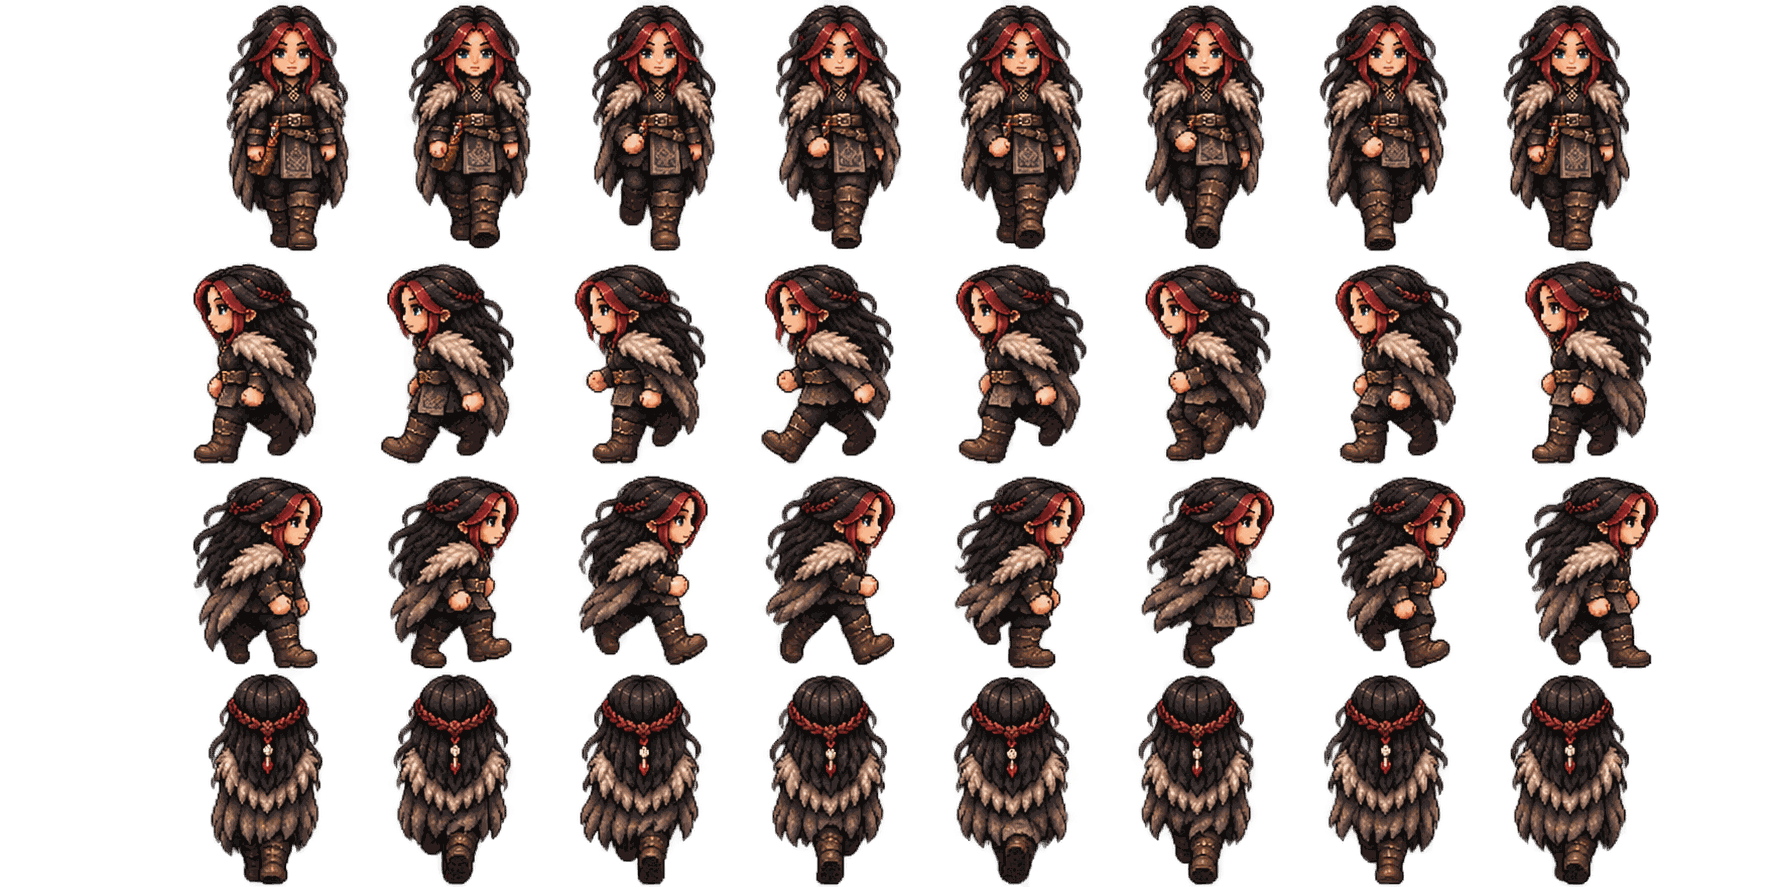
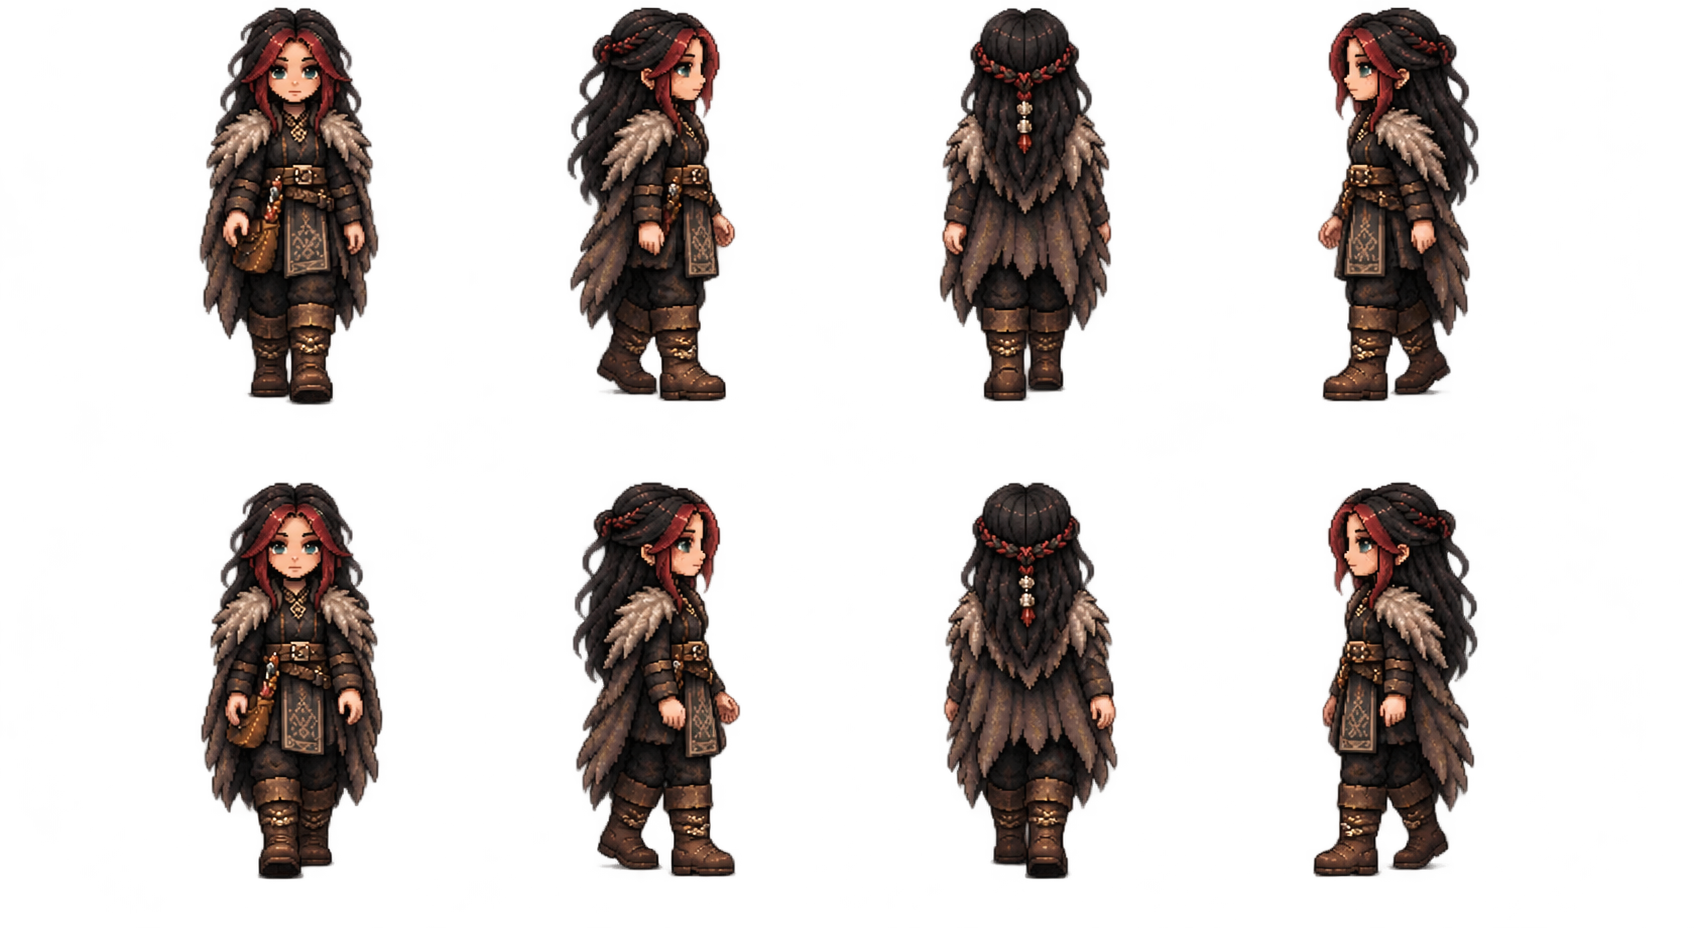
Use approved two-step Inca walking sprites in all four directions

diff --git a/haigen.html b/haigen.html
@@ -1,4 +1,4 @@
-<!doctype html><html lang="en"><head><meta charset="utf-8"><meta name="viewport" content="width=device-width,initial-scale=1,maximum-scale=1,user-scalable=no,viewport-fit=cover"><meta name="theme-color" content="#183b32"><title>Haigen's World V447 · Woodland Paths</title><link rel="icon" href="data:,"><style>*{box-sizing:border-box}html,body{margin:0;width:100%;height:100%;overflow:hidden;overscroll-behavior:none;background:#122b25;font-family:system-ui,-apple-system,sans-serif;color:#f7f0db;touch-action:none}canvas{display:block;width:100%;height:100%;position:absolute;inset:0}.hud{z-index:5;position:absolute;top:env(safe-area-inset-top,8px);left:10px;right:10px;display:flex;align-items:flex-start;justify-content:space-between;pointer-events:none;gap:8px}.panel{background:#173b32e8;border:2px solid #bba66c;border-radius:15px;padding:9px 12px;box-shadow:0 4px 0 #081b17a0;pointer-events:auto}.title{font-weight:900;font-size:16px}.small{font-size:12px;color:#d5d3b4}.resources{font-size:13px;margin-top:4px}.right{display:flex;gap:6px;flex-wrap:wrap;justify-content:flex-end;pointer-events:auto;position:relative;z-index:2}.right .btn{pointer-events:auto}.btn{background:#e8d4a1;color:#263b2c;border:2px solid #fff2c5;border-radius:12px;font-weight:800;padding:9px 11px;box-shadow:0 3px 0 #8d7142;cursor:pointer;touch-action:manipulation}.btn:active{transform:translateY(2px)}.bottom{position:absolute;bottom:calc(env(safe-area-inset-bottom,0px) + 18px);left:14px;right:14px;display:flex;justify-content:space-between;align-items:flex-end;pointer-events:none}.joystick{width:128px;height:128px;border-radius:50%;background:#14392e9c;border:3px solid #e5d6a278;position:relative;pointer-events:auto;touch-action:none}.stick{position:absolute;left:39px;top:39px;width:44px;height:44px;border-radius:50%;background:#e8d4a1;border:4px solid #fff1cb;box-shadow:0 3px 8px #0007}.actions{display:flex;flex-direction:column;gap:9px;align-items:flex-end;pointer-events:auto}.action{border-radius:24px;padding:13px 17px;font-size:15px}.toast{position:absolute;top:115px;left:50%;transform:translateX(-50%);max-width:min(90vw,440px);padding:10px 15px;background:#132e28ed;border:2px solid #e5d6a2;border-radius:14px;text-align:center;font-weight:700;opacity:0;transition:opacity .2s;pointer-events:none}.toast.show{opacity:1}.overlay{position:absolute;inset:0;background:#071a16c9;display:none;align-items:center;justify-content:center;padding:18px;z-index:10;touch-action:pan-y}.overlay.open{display:flex}.modal{width:min(96vw,540px);max-height:84vh;overflow:auto;background:#24493d;border:3px solid #d9c18a;border-radius:20px;padding:18px;box-shadow:0 15px 50px #0008;touch-action:pan-y}.modal h2{margin:0 0 8px}.modal p{line-height:1.5}.item{display:flex;justify-content:space-between;align-items:center;gap:12px;border-bottom:1px solid #ffffff24;padding:10px 0}.item .btn{white-space:nowrap}.close{float:right}.hotbar{position:absolute;z-index:4;bottom:calc(env(safe-area-inset-bottom,0px) + 14px);left:50%;transform:translateX(-50%);display:flex;align-items:center;gap:6px;padding:6px;max-width:calc(100vw - 16px);overflow-x:auto;scrollbar-width:thin;overscroll-behavior-x:contain;border-radius:14px;background:#173b32e8;border:2px solid #bba66c;pointer-events:auto}.slot{min-width:52px;min-height:51px;border:2px solid #ad9e74;border-radius:10px;background:#e8d4a1;color:#263b2c;font-size:21px;touch-action:manipulation}.slot.selected{border:3px solid #fff;background:#c9f0b5;box-shadow:0 0 0 2px #f3c65b}.slot:disabled{opacity:.4}.slot small{display:block;font-size:9px}.update-banner{position:absolute;z-index:30;top:calc(env(safe-area-inset-top,0px) + 85px);left:50%;transform:translateX(-50%);width:min(92vw,420px);padding:12px;border:2px solid #f3d37b;border-radius:14px;background:#173b32;color:#fff5d8;text-align:center;box-shadow:0 8px 30px #0009;display:none;pointer-events:auto}.update-banner.show{display:block}.update-banner button{margin:6px 4px 0}.hint{position:absolute;bottom:calc(env(safe-area-inset-bottom,0px) + 4px);left:50%;transform:translateX(-50%);font-size:11px;color:#fff7d2b9;pointer-events:none;white-space:nowrap}@media(max-width:600px){.title{font-size:13px}.small{font-size:10px}.panel{padding:7px 9px}.resources{font-size:11px}.right .btn{font-size:12px;padding:7px}.joystick{width:110px;height:110px}.stick{left:32px;top:32px}.action{padding:11px 14px;font-size:13px}.toast{top:calc(env(safe-area-inset-top,0px) + 6px);max-width:min(68vw,300px);padding:5px 9px;font-size:11px;line-height:1.25;border-width:1px;border-radius:9px;z-index:9}}
+<!doctype html><html lang="en"><head><meta charset="utf-8"><meta name="viewport" content="width=device-width,initial-scale=1,maximum-scale=1,user-scalable=no,viewport-fit=cover"><meta name="theme-color" content="#183b32"><title>Haigen's World V448 · Woodland Paths</title><link rel="icon" href="data:,"><style>*{box-sizing:border-box}html,body{margin:0;width:100%;height:100%;overflow:hidden;overscroll-behavior:none;background:#122b25;font-family:system-ui,-apple-system,sans-serif;color:#f7f0db;touch-action:none}canvas{display:block;width:100%;height:100%;position:absolute;inset:0}.hud{z-index:5;position:absolute;top:env(safe-area-inset-top,8px);left:10px;right:10px;display:flex;align-items:flex-start;justify-content:space-between;pointer-events:none;gap:8px}.panel{background:#173b32e8;border:2px solid #bba66c;border-radius:15px;padding:9px 12px;box-shadow:0 4px 0 #081b17a0;pointer-events:auto}.title{font-weight:900;font-size:16px}.small{font-size:12px;color:#d5d3b4}.resources{font-size:13px;margin-top:4px}.right{display:flex;gap:6px;flex-wrap:wrap;justify-content:flex-end;pointer-events:auto;position:relative;z-index:2}.right .btn{pointer-events:auto}.btn{background:#e8d4a1;color:#263b2c;border:2px solid #fff2c5;border-radius:12px;font-weight:800;padding:9px 11px;box-shadow:0 3px 0 #8d7142;cursor:pointer;touch-action:manipulation}.btn:active{transform:translateY(2px)}.bottom{position:absolute;bottom:calc(env(safe-area-inset-bottom,0px) + 18px);left:14px;right:14px;display:flex;justify-content:space-between;align-items:flex-end;pointer-events:none}.joystick{width:128px;height:128px;border-radius:50%;background:#14392e9c;border:3px solid #e5d6a278;position:relative;pointer-events:auto;touch-action:none}.stick{position:absolute;left:39px;top:39px;width:44px;height:44px;border-radius:50%;background:#e8d4a1;border:4px solid #fff1cb;box-shadow:0 3px 8px #0007}.actions{display:flex;flex-direction:column;gap:9px;align-items:flex-end;pointer-events:auto}.action{border-radius:24px;padding:13px 17px;font-size:15px}.toast{position:absolute;top:115px;left:50%;transform:translateX(-50%);max-width:min(90vw,440px);padding:10px 15px;background:#132e28ed;border:2px solid #e5d6a2;border-radius:14px;text-align:center;font-weight:700;opacity:0;transition:opacity .2s;pointer-events:none}.toast.show{opacity:1}.overlay{position:absolute;inset:0;background:#071a16c9;display:none;align-items:center;justify-content:center;padding:18px;z-index:10;touch-action:pan-y}.overlay.open{display:flex}.modal{width:min(96vw,540px);max-height:84vh;overflow:auto;background:#24493d;border:3px solid #d9c18a;border-radius:20px;padding:18px;box-shadow:0 15px 50px #0008;touch-action:pan-y}.modal h2{margin:0 0 8px}.modal p{line-height:1.5}.item{display:flex;justify-content:space-between;align-items:center;gap:12px;border-bottom:1px solid #ffffff24;padding:10px 0}.item .btn{white-space:nowrap}.close{float:right}.hotbar{position:absolute;z-index:4;bottom:calc(env(safe-area-inset-bottom,0px) + 14px);left:50%;transform:translateX(-50%);display:flex;align-items:center;gap:6px;padding:6px;max-width:calc(100vw - 16px);overflow-x:auto;scrollbar-width:thin;overscroll-behavior-x:contain;border-radius:14px;background:#173b32e8;border:2px solid #bba66c;pointer-events:auto}.slot{min-width:52px;min-height:51px;border:2px solid #ad9e74;border-radius:10px;background:#e8d4a1;color:#263b2c;font-size:21px;touch-action:manipulation}.slot.selected{border:3px solid #fff;background:#c9f0b5;box-shadow:0 0 0 2px #f3c65b}.slot:disabled{opacity:.4}.slot small{display:block;font-size:9px}.update-banner{position:absolute;z-index:30;top:calc(env(safe-area-inset-top,0px) + 85px);left:50%;transform:translateX(-50%);width:min(92vw,420px);padding:12px;border:2px solid #f3d37b;border-radius:14px;background:#173b32;color:#fff5d8;text-align:center;box-shadow:0 8px 30px #0009;display:none;pointer-events:auto}.update-banner.show{display:block}.update-banner button{margin:6px 4px 0}.hint{position:absolute;bottom:calc(env(safe-area-inset-bottom,0px) + 4px);left:50%;transform:translateX(-50%);font-size:11px;color:#fff7d2b9;pointer-events:none;white-space:nowrap}@media(max-width:600px){.title{font-size:13px}.small{font-size:10px}.panel{padding:7px 9px}.resources{font-size:11px}.right .btn{font-size:12px;padding:7px}.joystick{width:110px;height:110px}.stick{left:32px;top:32px}.action{padding:11px 14px;font-size:13px}.toast{top:calc(env(safe-area-inset-top,0px) + 6px);max-width:min(68vw,300px);padding:5px 9px;font-size:11px;line-height:1.25;border-width:1px;border-radius:9px;z-index:9}}
 .mobile-menu,.stats-toggle{display:none}
 @media(max-width:600px),(pointer:coarse) and (max-height:600px){
  .hud{top:calc(env(safe-area-inset-top,0px) + 8px);right:84px}
@@ -88,7 +88,7 @@ body.v127-rpg .modal input::placeholder,body.v127-rpg .modal textarea::placehold
 body.v127-rpg .modal select option{background:#26352d;color:#ffe9bd}
 body.v127-rpg .haigen-speech{background:rgba(24,29,27,.62);color:#ffe9bd;text-shadow:0 1px 2px #101713}
 body.v127-rpg .haigen-speech::after{background:rgba(24,29,27,.62)}
-</style></head><body><canvas id="game"></canvas><div id="haigenSpeech" class="haigen-speech" aria-live="off" role="note"></div><div class="dev-version" id="devVersion" aria-label="Game build version">V447</div><div class="hud"><div class="panel"><div class="title">🌲 HAIGEN'S WORLD <span id="hudBuildBadge" style="color:#ffe7a3;font-size:12px">V447</span></div><div class="small" id="regionName">The Ancient Woodland</div><div class="small" id="day">Day 1 • Morning</div><div id="energyMeter" style="font-weight:700;color:#c3dcfa">💤 Energy 85/100</div><div id="hungerMeter" style="font-weight:700;color:#f3d18b">🍲 Hunger 85/100</div><div id="lifeMeter" role="progressbar" aria-label="Haigen health" aria-valuemin="0" aria-valuemax="100" aria-valuenow="100" style="margin:5px 0;font-size:12px;font-weight:bold">❤ Health 100/100<div style="height:10px;background:#432f2b;border:1px solid #e5cfaa;border-radius:8px;overflow:hidden"><div id="lifeFill" style="height:100%;width:100%;background:#73c977;transition:width .2s"></div></div></div><div class="small" id="padDebug" style="background:#102e28;border-radius:6px;padding:4px;margin-top:4px">🎮 Checking controller…</div><div class="resources" id="resources">🪵 0 &nbsp; 🪨 0 &nbsp; 🍓 0</div><div class="small" id="campQuestHud" style="margin-top:5px;color:#f7dca5"></div><div class="small" id="homesteadHud" style="margin-top:4px;color:#d2e9c6"></div></div><div class="right"><button class="btn" id="modeBtn">🤖 Let Haigen play</button><button class="btn" id="packBtn">🎒 Backpack</button><button class="btn" id="storyBtn">📜 Story</button><button class="btn" id="mapBtn">🗺 Map</button><button class="btn" id="journalBtn">📖 Journal</button><button class="btn" id="craftBtn">🔨 Build</button><button class="btn" id="artBtn">🎨 Classic look</button><button class="btn" id="helpBtn">❔</button></div></div><button class="btn" id="devKitBtn" type="button" aria-label="Open developer weapons and inventory" style="position:fixed;top:calc(env(safe-area-inset-top,0px) + 177px);right:calc(env(safe-area-inset-right,0px) + 12px);z-index:29;padding:8px 12px;background:linear-gradient(160deg,#614b36,#1b2523);color:#ffecbb;border:2px ridge #e2b56e;border-radius:9px;box-shadow:0 3px 14px #000a;font:700 12px Georgia,serif;letter-spacing:.04em">🧰 DEV KIT</button><button class="btn" id="regionsQuickBtn" style="position:absolute;top:calc(env(safe-area-inset-top, 8px) + 64px);right:12px;z-index:8;font-size:13px;box-shadow:0 3px 10px #0006">🌍 Explore World</button><div class="toast" id="toast"></div><div class="update-banner" id="updateBanner"><b>🌲 A new Haigen’s World update is ready!</b><div class="small">Your adventure will be saved before refreshing.</div><button class="btn" id="applyUpdateBtn">✨ Update now</button><button class="btn" id="laterUpdateBtn">Later</button></div><div class="bottom"><div class="joystick" id="joy"><div class="stick" id="stick"></div></div><div class="actions"><button class="btn action" id="autoTouchBtn" style="background:#c9f0b5;min-width:155px;min-height:55px">🤖 Let Haigen play</button><button class="btn action" id="eatBtn">🍲 Eat</button><button class="btn action" id="healBtn">🌿 Heal</button><button class="btn action" id="restBtn">💤 Rest</button><button class="btn action" id="styleBtn">💇 Hair</button><button class="btn action" id="mailBtn">🧠 Haigen’s Notes</button><button class="btn action" id="cookBtn">🔥 Cook & mix</button><button class="btn action" id="interactBtn">✋ X Collect</button><button class="btn action" id="useBtn">🪓 RT Use tool</button><button class="btn action" id="callBtn">🦊 Call friends</button></div></div><div class="hotbar" id="hotbar" aria-label="Equipped tools"><button class="slot selected" data-equip="hands">✋<small>Hands</small></button><button class="slot" disabled data-equip="axe">🪓<small>Axe</small></button><button class="slot" disabled data-equip="torch">🔦<small>Torch</small></button></div><div class="hint">Move with joystick / Xbox controller / WASD • X collect • RT use tool • LB/RB equip • Start map • View mark / hold for playtest • D-pad select • A confirm • B back • Right stick look • Autosaves</div><div class="overlay" id="overlay"><div class="modal"><button class="btn close" id="closeBtn">✕</button><div id="modalBody"></div></div></div><div id="worldError" role="alert" style="display:none;position:fixed;z-index:50;top:46%;left:8%;right:8%;border:2px solid #f9bd78;border-radius:14px;background:#382b2bf0;color:#fff0d5;padding:15px;font:600 14px system-ui;text-align:center;overflow-wrap:anywhere"></div><script>
+</style></head><body><canvas id="game"></canvas><div id="haigenSpeech" class="haigen-speech" aria-live="off" role="note"></div><div class="dev-version" id="devVersion" aria-label="Game build version">V448</div><div class="hud"><div class="panel"><div class="title">🌲 HAIGEN'S WORLD <span id="hudBuildBadge" style="color:#ffe7a3;font-size:12px">V448</span></div><div class="small" id="regionName">The Ancient Woodland</div><div class="small" id="day">Day 1 • Morning</div><div id="energyMeter" style="font-weight:700;color:#c3dcfa">💤 Energy 85/100</div><div id="hungerMeter" style="font-weight:700;color:#f3d18b">🍲 Hunger 85/100</div><div id="lifeMeter" role="progressbar" aria-label="Haigen health" aria-valuemin="0" aria-valuemax="100" aria-valuenow="100" style="margin:5px 0;font-size:12px;font-weight:bold">❤ Health 100/100<div style="height:10px;background:#432f2b;border:1px solid #e5cfaa;border-radius:8px;overflow:hidden"><div id="lifeFill" style="height:100%;width:100%;background:#73c977;transition:width .2s"></div></div></div><div class="small" id="padDebug" style="background:#102e28;border-radius:6px;padding:4px;margin-top:4px">🎮 Checking controller…</div><div class="resources" id="resources">🪵 0 &nbsp; 🪨 0 &nbsp; 🍓 0</div><div class="small" id="campQuestHud" style="margin-top:5px;color:#f7dca5"></div><div class="small" id="homesteadHud" style="margin-top:4px;color:#d2e9c6"></div></div><div class="right"><button class="btn" id="modeBtn">🤖 Let Haigen play</button><button class="btn" id="packBtn">🎒 Backpack</button><button class="btn" id="storyBtn">📜 Story</button><button class="btn" id="mapBtn">🗺 Map</button><button class="btn" id="journalBtn">📖 Journal</button><button class="btn" id="craftBtn">🔨 Build</button><button class="btn" id="artBtn">🎨 Classic look</button><button class="btn" id="helpBtn">❔</button></div></div><button class="btn" id="devKitBtn" type="button" aria-label="Open developer weapons and inventory" style="position:fixed;top:calc(env(safe-area-inset-top,0px) + 177px);right:calc(env(safe-area-inset-right,0px) + 12px);z-index:29;padding:8px 12px;background:linear-gradient(160deg,#614b36,#1b2523);color:#ffecbb;border:2px ridge #e2b56e;border-radius:9px;box-shadow:0 3px 14px #000a;font:700 12px Georgia,serif;letter-spacing:.04em">🧰 DEV KIT</button><button class="btn" id="regionsQuickBtn" style="position:absolute;top:calc(env(safe-area-inset-top, 8px) + 64px);right:12px;z-index:8;font-size:13px;box-shadow:0 3px 10px #0006">🌍 Explore World</button><div class="toast" id="toast"></div><div class="update-banner" id="updateBanner"><b>🌲 A new Haigen’s World update is ready!</b><div class="small">Your adventure will be saved before refreshing.</div><button class="btn" id="applyUpdateBtn">✨ Update now</button><button class="btn" id="laterUpdateBtn">Later</button></div><div class="bottom"><div class="joystick" id="joy"><div class="stick" id="stick"></div></div><div class="actions"><button class="btn action" id="autoTouchBtn" style="background:#c9f0b5;min-width:155px;min-height:55px">🤖 Let Haigen play</button><button class="btn action" id="eatBtn">🍲 Eat</button><button class="btn action" id="healBtn">🌿 Heal</button><button class="btn action" id="restBtn">💤 Rest</button><button class="btn action" id="styleBtn">💇 Hair</button><button class="btn action" id="mailBtn">🧠 Haigen’s Notes</button><button class="btn action" id="cookBtn">🔥 Cook & mix</button><button class="btn action" id="interactBtn">✋ X Collect</button><button class="btn action" id="useBtn">🪓 RT Use tool</button><button class="btn action" id="callBtn">🦊 Call friends</button></div></div><div class="hotbar" id="hotbar" aria-label="Equipped tools"><button class="slot selected" data-equip="hands">✋<small>Hands</small></button><button class="slot" disabled data-equip="axe">🪓<small>Axe</small></button><button class="slot" disabled data-equip="torch">🔦<small>Torch</small></button></div><div class="hint">Move with joystick / Xbox controller / WASD • X collect • RT use tool • LB/RB equip • Start map • View mark / hold for playtest • D-pad select • A confirm • B back • Right stick look • Autosaves</div><div class="overlay" id="overlay"><div class="modal"><button class="btn close" id="closeBtn">✕</button><div id="modalBody"></div></div></div><div id="worldError" role="alert" style="display:none;position:fixed;z-index:50;top:46%;left:8%;right:8%;border:2px solid #f9bd78;border-radius:14px;background:#382b2bf0;color:#fff0d5;padding:15px;font:600 14px system-ui;text-align:center;overflow-wrap:anywhere"></div><script>
 (function(){
   window.__haigenWorldReady=false;
   function showStartupError(message){
@@ -14001,12 +14001,13 @@ const incaFrames={idle:{},walk:{}};
 function incaLoad(path,walking){
  const img=new Image();
  img.onload=()=>{
-  const rows=walking?[[0,250,'down'],[250,458,'left'],[458,655,'right'],[655,887,'up']]:[[0,326,'idle']];
-  for(const [top,bottom,dir] of rows){
-   const count=walking?8:4;
-   for(let i=0;i<count;i++){
-    const l=walking?Math.round((i===0?150: (dir==='down'?190:155)+i*(dir==='down'?178:185))):[0,149,300,451][i];
-    const rr=walking?Math.min(img.width,Math.round((dir==='down'?190:155)+(i+1)*(dir==='down'?178:185))):[149,300,451,594][i];
+  const directions=['down','right','up','left'];
+  const rowCount=walking?2:1;
+  for(let row=0;row<rowCount;row++){
+   const top=Math.round(row*img.height/rowCount),bottom=Math.round((row+1)*img.height/rowCount);
+   for(const [i,dir] of directions.entries()){
+    const l=walking?Math.round(i*img.width/4):[0,149,300,451][i];
+    const rr=walking?Math.round((i+1)*img.width/4):[149,300,451,594][i];
     const c=document.createElement('canvas');c.width=rr-l;c.height=bottom-top;
     const g=c.getContext('2d',{willReadFrequently:true});g.drawImage(img,l,top,c.width,c.height,0,0,c.width,c.height);
     const p=g.getImageData(0,0,c.width,c.height),d=p.data;
@@ -14014,13 +14015,13 @@ function incaLoad(path,walking){
     for(let y=0;y<c.height;y++)for(let x=0;x<c.width;x++){const j=(y*c.width+x)*4;if(!walking&&d[j]>242&&d[j+1]>242&&d[j+2]>242)d[j+3]=0;if(d[j+3]>100){x0=Math.min(x0,x);x1=Math.max(x1,x);y0=Math.min(y0,y);y1=Math.max(y1,y);}}
     g.putImageData(p,0,0);if(x1<x0)continue;
     const f={c,x:x0,y:y0,w:x1-x0+1,h:y1-y0+1};
-    if(walking)(incaFrames.walk[dir]??=[]).push(f);else incaFrames.idle[['down','right','up','left'][i]]=f;
+    if(walking)(incaFrames.walk[dir]??=[]).push(f);else incaFrames.idle[dir]=f;
    }
   }
  };
  img.src=path;
 }
-incaLoad('inca_standing.png',false);incaLoad('inca_walking.png',true);
+incaLoad('inca_standing.png',false);incaLoad('inca_walking.png?v=448',true);
 function incaLand(x,y){return islandDepth(x,y)>30&&walkingLakeLevel(x,y)>=1&&!blockedBySolid(x,y);}
 function tickInca(dt){
  const a=incaActor;
@@ -14244,7 +14245,7 @@ window.__haigenArtAudit=()=>({
 });
 window.__haigenAssetReport=()=>{const x=window.__haigenArtAudit();x.missing=Object.entries(x.approved).filter(([,ok])=>!ok).map(([name])=>name);return x};
  // M1 foundations: every on-screen version/identity surface reads GAME_BUILD.
- const GAME_BUILD=447;
+ const GAME_BUILD=448;
  const buildLabel='V'+GAME_BUILD;
  const buildBadge=document.getElementById('devVersion');
  buildBadge.textContent=buildLabel;
